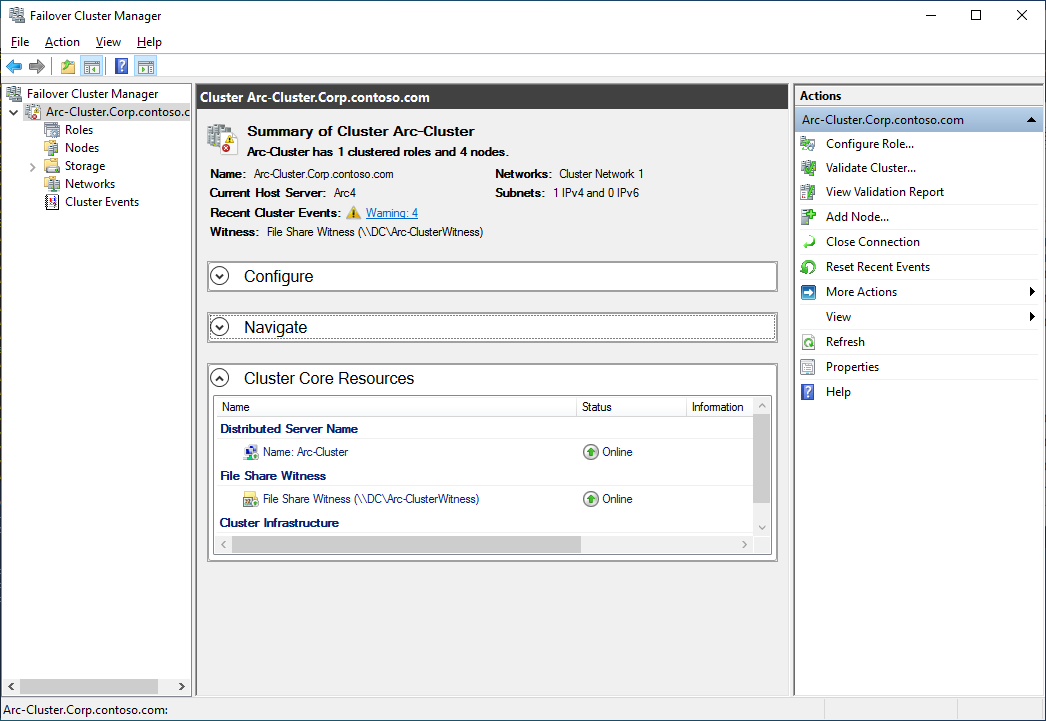
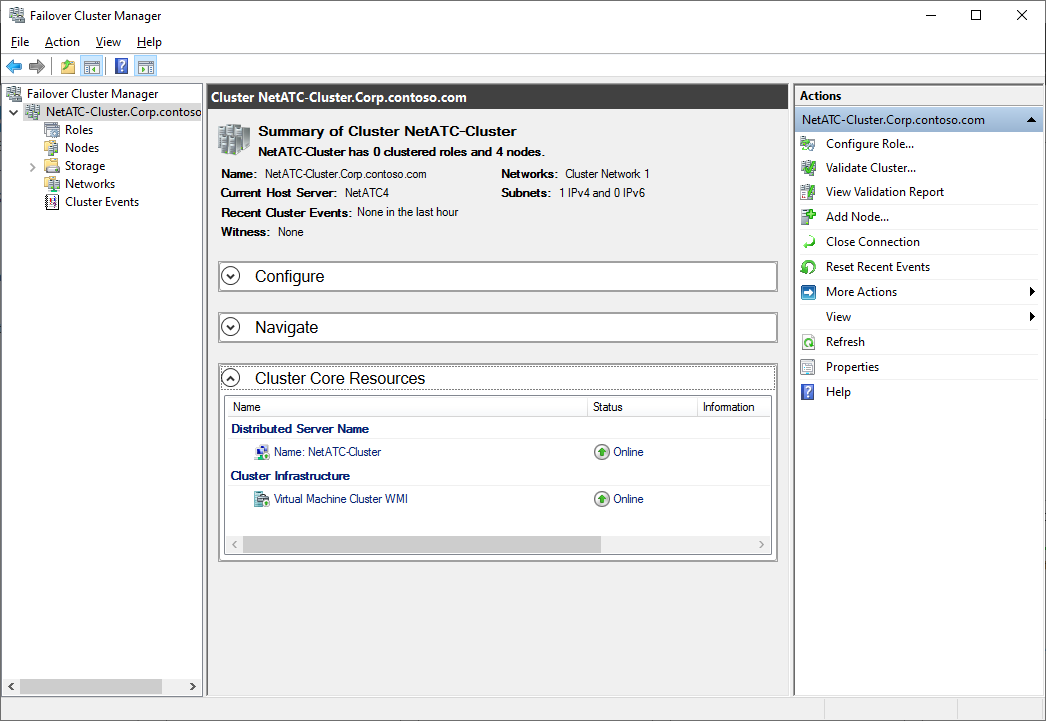
added Network ATC

diff --git a/Scenarios/Exploring new features in 21H2/readme.md b/Scenarios/Exploring new features in 21H2/readme.md
@@ -1,5 +1,24 @@
 # Exploring new features in 21H2
 
+<!-- TOC -->
+
+- [Exploring new features in 21H2](#exploring-new-features-in-21h2)
+    - [About lab](#about-lab)
+        - [Requirements](#requirements)
+    - [Rolling Cluster Upgrade](#rolling-cluster-upgrade)
+        - [Region Rolling Cluster Upgrade - Prereqs](#region-rolling-cluster-upgrade---prereqs)
+        - [Region Rolling Cluster Upgrade - The Lab](#region-rolling-cluster-upgrade---the-lab)
+    - [Azure Arc](#azure-arc)
+        - [Region Azure Arc - Prereqs](#region-azure-arc---prereqs)
+        - [Region Azure Arc - The Lab](#region-azure-arc---the-lab)
+    - [Network ATC](#network-atc)
+        - [Region Network ATC - Prereqs](#region-network-atc---prereqs)
+        - [Region Network ATC - The Lab](#region-network-atc---the-lab)
+    - [Thin provisioned volumes](#thin-provisioned-volumes)
+    - [Other features](#other-features)
+
+<!-- /TOC -->
+
 ## About lab
 
 In this lab we will demonstrate new featues in Windows Server 2022 and Azure Stack HCI 21H2. 
@@ -107,6 +126,8 @@ After (enable monitoring is available and Arc Agent is installed)
 
 ![](/Scenarios/Exploring%20new%20features%20in%2021H2/Screenshots/Roll_Portal04.png)
 
+Also notice, that during registration App identity was created (to be able to register Arc Agents using a secret)
+
 ![](/Scenarios/Exploring%20new%20features%20in%2021H2/Screenshots/Roll_Portal05.png)
 
 
@@ -172,11 +193,58 @@ It will simply push Arc Extensions to nodes (with Workspace configuration)
 
 In this lab you will explore new Azure Stack HCI 21H2 feature [Network ATC](https://docs.microsoft.com/en-us/azure-stack/hci/deploy/network-atc). It's bit complicated to simulate in virtual environment (it will ultimately fail to apply configuration due to lack of features available in physical environment) but it will give you nice overview of how the feature works and how different it is from configuring network "manually"
 
-### Region Azure Arc - Prereqs
+### Region Network ATC - Prereqs
 
-Prereqs region is simplified cluster deployment with enabled S2D and File Share witness. Notice, that cluster name is configured as Distributed Server Name.
+Prereqs region is very simple cluster with enabled S2D.
 
 ![](/Scenarios/Exploring%20new%20features%20in%2021H2/Screenshots/ATC_Cluadmin01.png)
+
+### Region Network ATC - The Lab
+
+Configuration created with module copied from Azure Stack HCI nodes to Windows Server 2022
+
+![](/Scenarios/Exploring%20new%20features%20in%2021H2/Screenshots/ATC_PowerShell01.png)
+
+Converged intent will be provisioned
+
+![](/Scenarios/Exploring%20new%20features%20in%2021H2/Screenshots/ATC_PowerShell02.png)
+
+And script will wait until configuration will be fully applied, or eventually fail (will take some time)
+
+![](/Scenarios/Exploring%20new%20features%20in%2021H2/Screenshots/ATC_PowerShell03.png)
+
+Notice failed ConfigurationStatus
+
+![](/Scenarios/Exploring%20new%20features%20in%2021H2/Screenshots/ATC_PowerShell04.png)
+
+Let's explore what was configured
+
+![](/Scenarios/Exploring%20new%20features%20in%2021H2/Screenshots/ATC_PowerShell05.png)
+
+![](/Scenarios/Exploring%20new%20features%20in%2021H2/Screenshots/ATC_PowerShell06.png)
+
+![](/Scenarios/Exploring%20new%20features%20in%2021H2/Screenshots/ATC_PowerShell07.png)
+
+![](/Scenarios/Exploring%20new%20features%20in%2021H2/Screenshots/ATC_PowerShell08.png)
+
+![](/Scenarios/Exploring%20new%20features%20in%2021H2/Screenshots/ATC_PowerShell09.png)
+
+Since it did not end well (and there are still several network configurations that netATC does not cover) config will be cleaned up and deployed manually.
+
+Manual configuration result:
+
+![](/Scenarios/Exploring%20new%20features%20in%2021H2/Screenshots/ATC_PowerShell10.png)
+
+![](/Scenarios/Exploring%20new%20features%20in%2021H2/Screenshots/ATC_PowerShell11.png)
+
+![](/Scenarios/Exploring%20new%20features%20in%2021H2/Screenshots/ATC_PowerShell12.png)
+
+![](/Scenarios/Exploring%20new%20features%20in%2021H2/Screenshots/ATC_PowerShell13.png)
+
+![](/Scenarios/Exploring%20new%20features%20in%2021H2/Screenshots/ATC_PowerShell14.png)
+
+
+
 ## Thin provisioned volumes
 
 ## Other features
